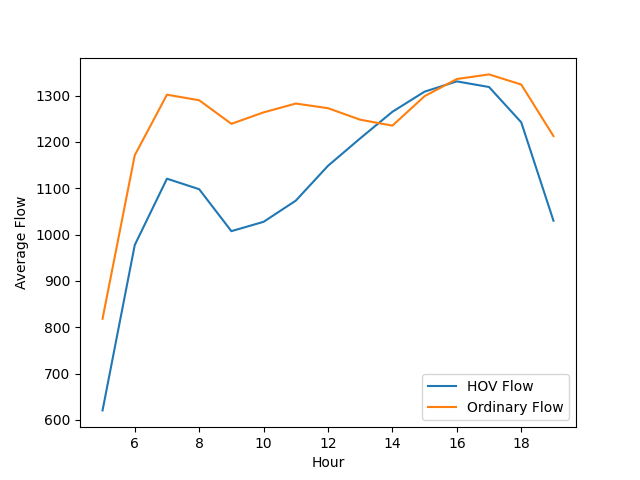
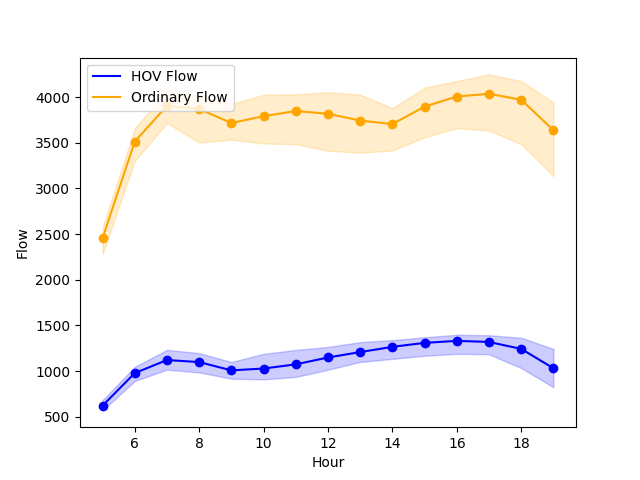
add CI to flow

diff --git a/visualize_data.py b/visualize_data.py
@@ -44,3 +44,21 @@ plt.legend(loc = "upper left")
 plt.savefig("travel_time.png")
 plt.clf()
 plt.close()
+
+df_demand = pd.read_csv("data/df_meta_w_demand.csv")
+df_hov = df_demand[["Hour", "HOV Flow"]].groupby("Hour").agg({"HOV Flow": ["mean", q1, q3]}).reset_index().sort_values("Hour")
+df_hov.columns = ["Hour", "HOV Flow", "HOV Flow Lower", "HOV Flow Upper"]
+df_o = df_demand[["Hour", "Ordinary Flow"]].groupby("Hour").agg({"Ordinary Flow": ["mean", q1, q3]}).reset_index().sort_values("Hour")
+df_o.columns = ["Hour", "Ordinary Flow", "Ordinary Flow Lower", "Ordinary Flow Upper"]
+plt.scatter(df_hov["Hour"], df_hov["HOV Flow"], color = "blue")
+plt.plot(df_hov["Hour"], df_hov["HOV Flow"], color = "blue", label = "HOV Flow")
+plt.fill_between(df_hov["Hour"], df_hov["HOV Flow Lower"], df_hov["HOV Flow Upper"], color = "blue", alpha = 0.2)
+plt.scatter(df_o["Hour"], df_o["Ordinary Flow"], color = "orange")
+plt.plot(df_o["Hour"], df_o["Ordinary Flow"], color = "orange", label = "Ordinary Flow")
+plt.fill_between(df_o["Hour"], df_o["Ordinary Flow Lower"], df_o["Ordinary Flow Upper"], color = "orange", alpha = 0.2)
+plt.xlabel("Hour")
+plt.ylabel("Flow")
+plt.legend(loc = "upper left")
+plt.savefig("flow.png")
+plt.clf()
+plt.close()
